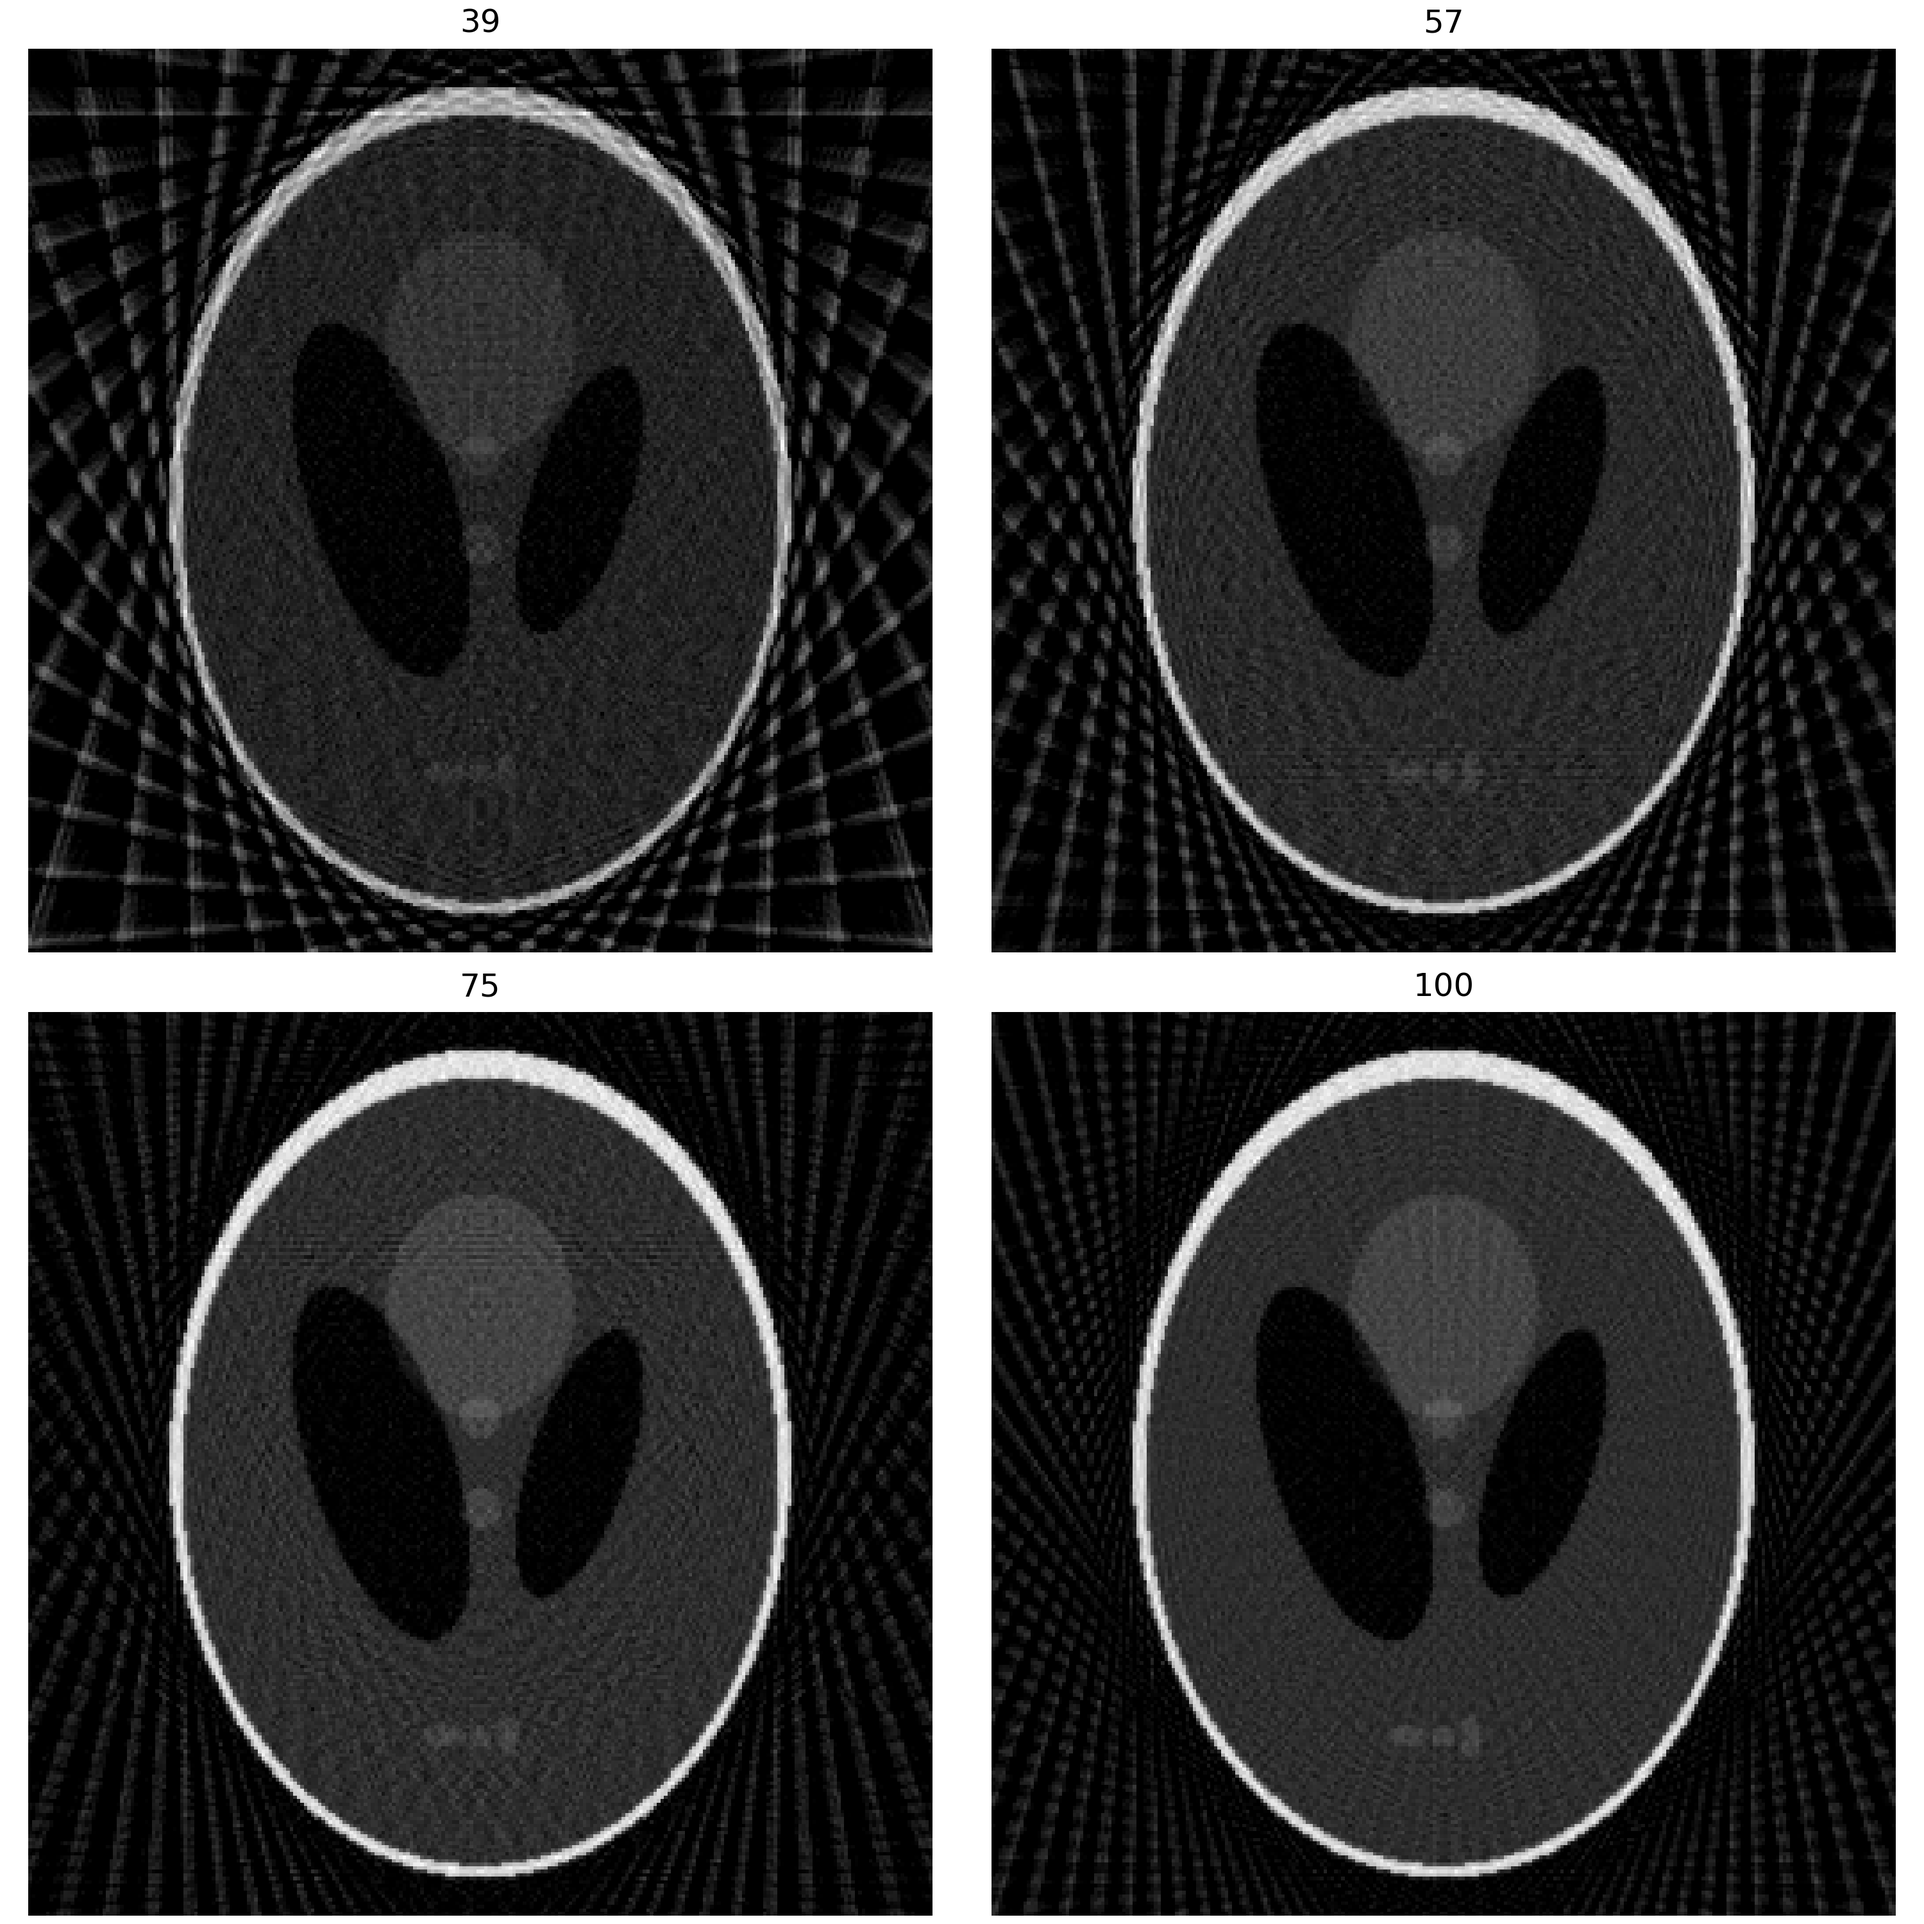
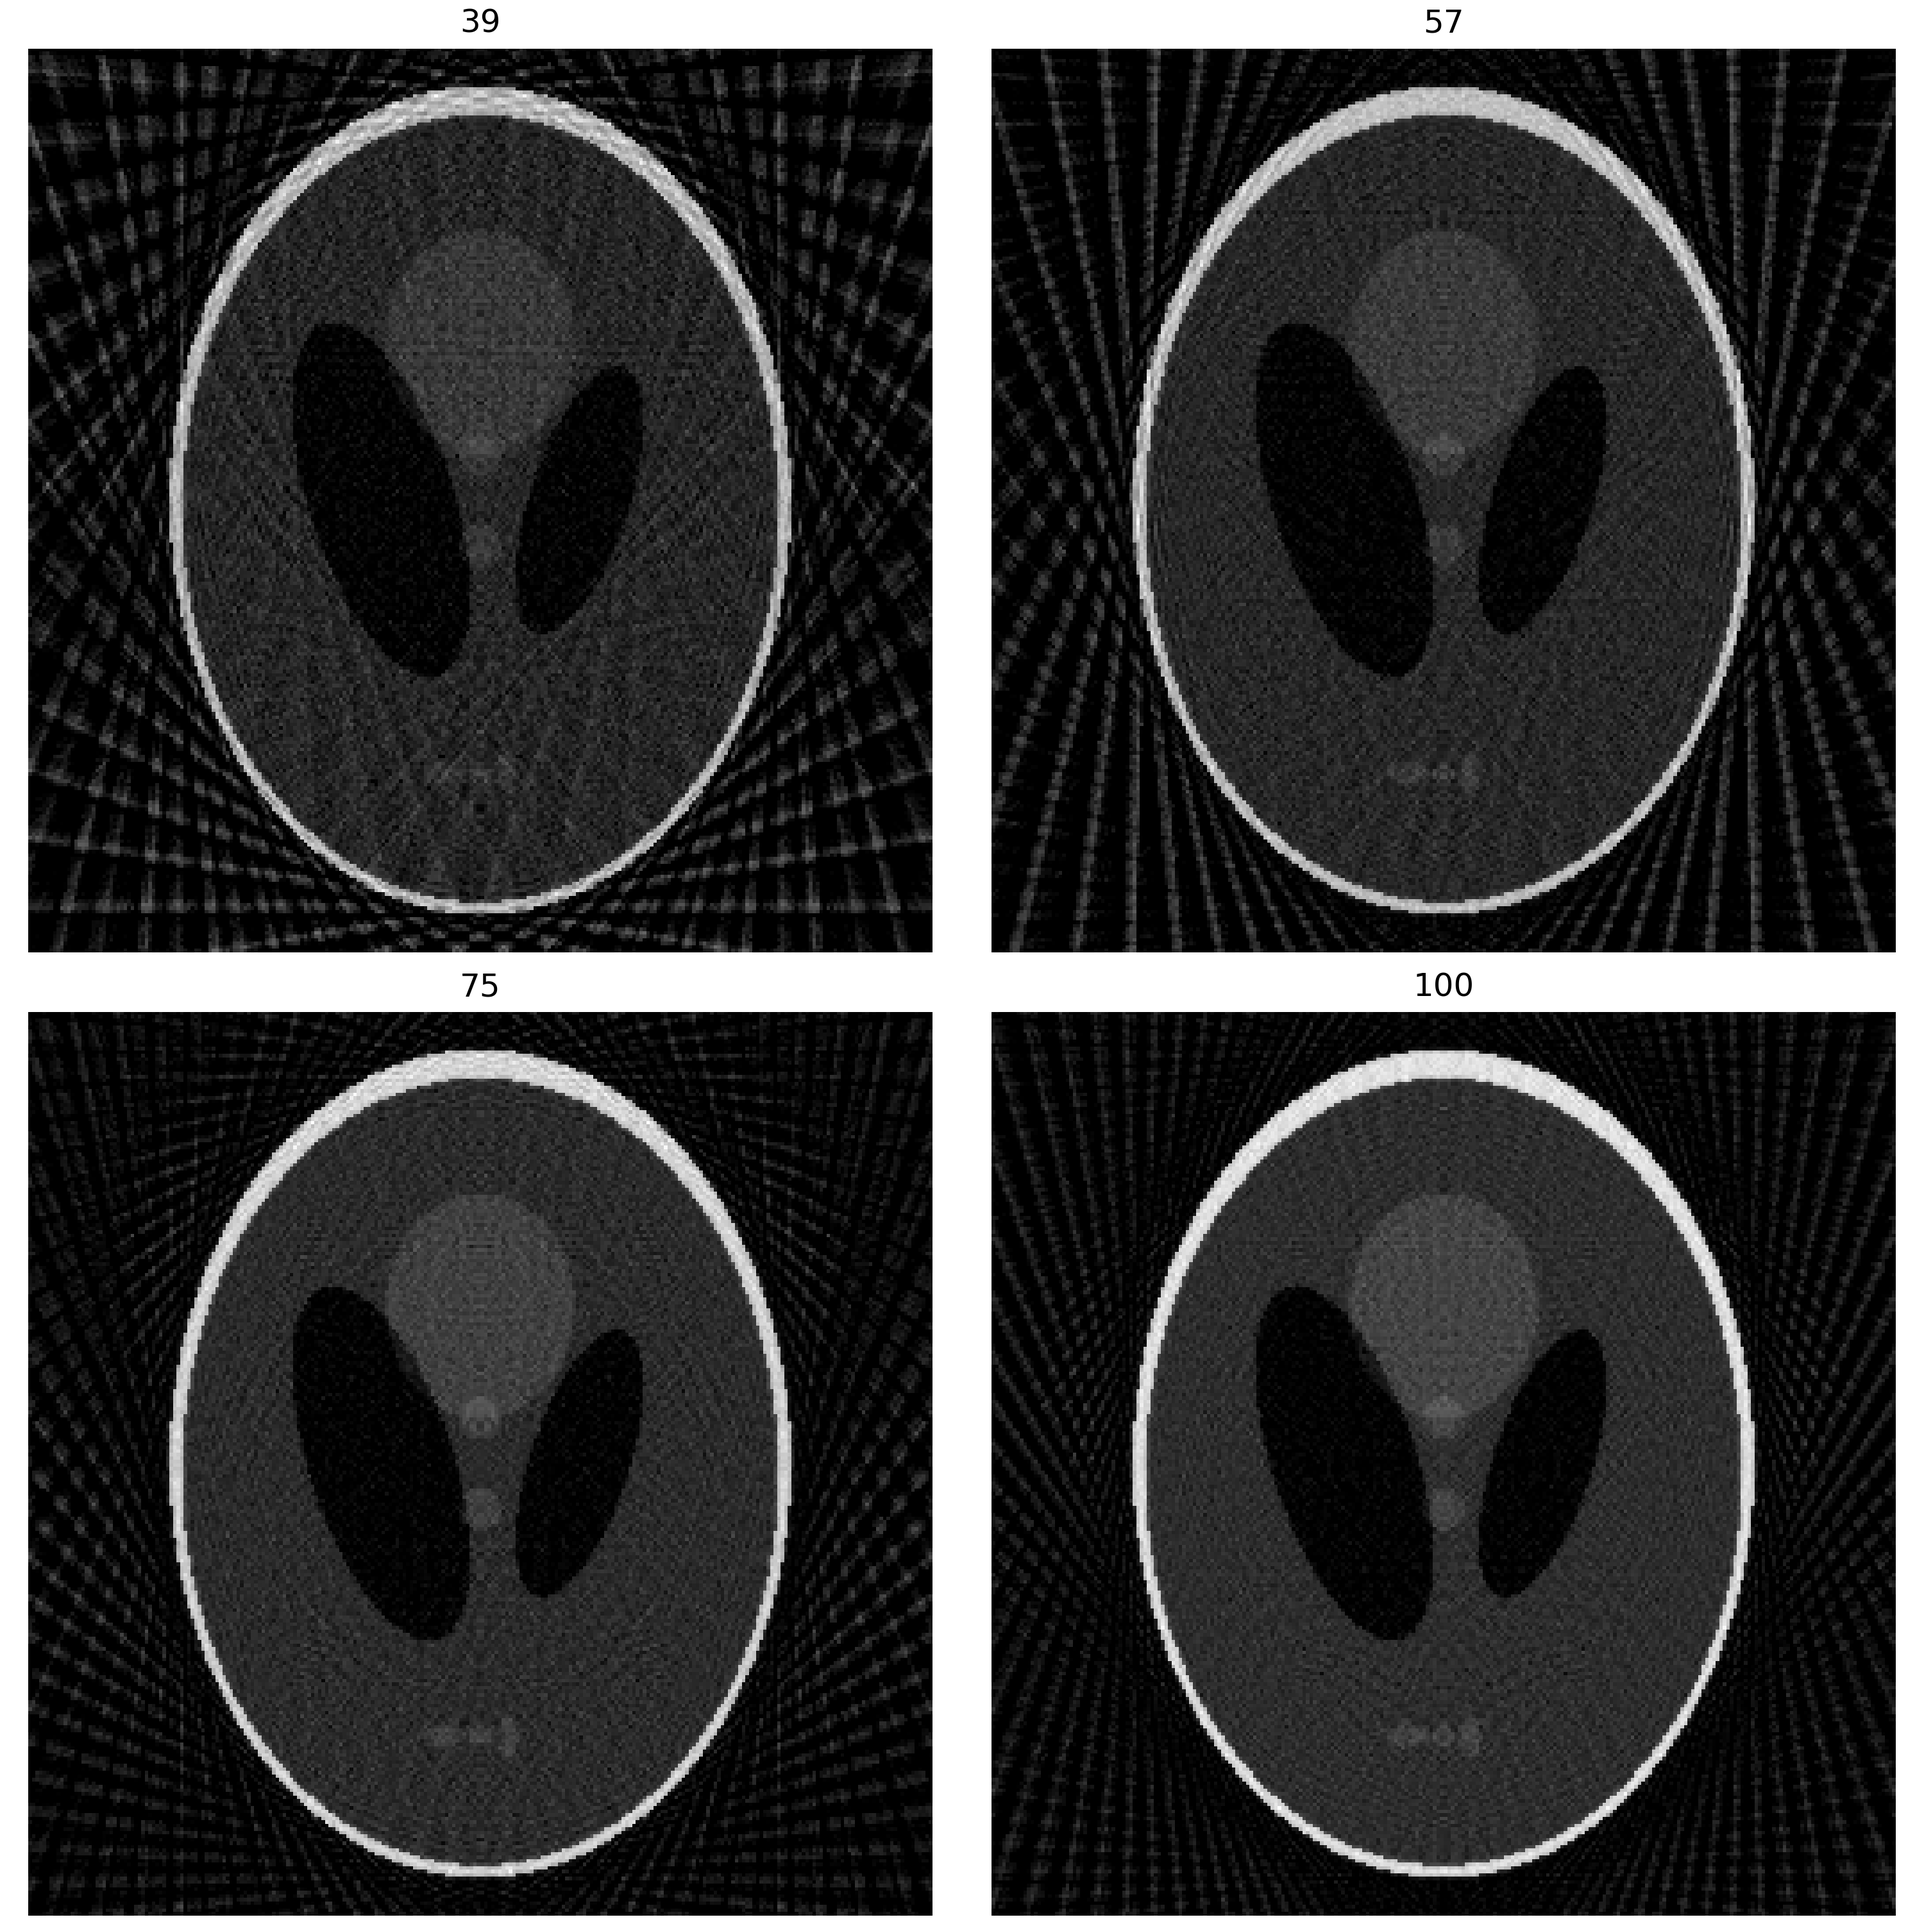
Update reconstruction method and use pandas to save excel file

diff --git a/DBWToolbox/reconstruction.py b/DBWToolbox/reconstruction.py
@@ -1,11 +1,29 @@
 import astra
 import numpy as np
 
+class Paramaters:
+    def __init__(self):
+        self.param = {}
+        self.param['vol_geom_size'] = (256, 256)    # CT图像分辨率 X,Y
+        # self.param['sx'] = 0.05*1012       # CT图像X 方向实际物理尺寸
+        # self.param['sy'] = 0.05*1012        # CT图像Y 方向实际物理尺寸
+        self.param['dect_count'] = 1024    #高分辨率探测器的分辨率
+        self.param['dsd'] = 1500      #光源到探测器的距离
+        self.param['dso'] = 1000       #光源到旋转中心的距离
+        self.param['startangle'] = 0     #旋转起始角度
+        self.param['endangle'] = 360   #旋转终止角度
+        self.param['n_proj'] = 360        #投影数
+        self.param['detector_width'] = 1
+        self.param['algorithm'] = 'FBP_CUDA'  # 投影算法
+        self.param['interation'] = -1  # 如果是迭代算法，这里写迭代次数
+        self.param['short_scan'] = False  # 是否使用short scan
+        self.param['scale'] = 2
+
 
 def get_fan_sino_param(image, param):
     angles = np.deg2rad(np.linspace(param['startangle'], param['endangle'],
                                     param['n_proj'], endpoint=False))
-    sino = get_fan_sino(image, source_detector=param['dso'], dect_w=param['detector_width'],
+    sino = get_fan_sino(image, source_ori=param['dso'], ori_detector=param['dsd']-param['dso'], dect_w=param['detector_width'],
                         dect_count=param['dect_count'], vol_geom_size=param['vol_geom_size'], angles=angles,)
     return sino
 
@@ -13,35 +31,37 @@ def get_fan_sino_param(image, param):
 def recon_fan_param(sino, param):
     angles = np.deg2rad(np.linspace(param['startangle'], param['endangle'],
                                     param['n_proj'], endpoint=False))
-    image = recon_fan(alg=param['algorithm'], sino=sino, source_detector=param['dso'],
+    image = recon_fan(alg=param['algorithm'], sino=sino, source_ori=param['dso'], ori_detector=param['dsd']-param['dso'],
                       dect_w=param['detector_width'], vol_geom_size=param['vol_geom_size'], angles=angles,
                       interations=param['interation'], short_scan=param['short_scan'])
     return image
 
 
-def get_fan_sino(image, source_detector, dect_w, dect_count, vol_geom_size, angles,):
-    astra.algorithm.clear()
+def get_fan_sino(image, source_ori, ori_detector, dect_w, dect_count, vol_geom_size, angles, ):
+    # astra.algorithm.clear()
     vol_geom_fan = astra.create_vol_geom(vol_geom_size)
-    proj_geom_fan = astra.create_proj_geom('fanflat', 1, dect_count,
+    proj_geom_fan = astra.create_proj_geom('fanflat', dect_w, dect_count,
                                            angles,
-                                           source_detector / dect_w, 0)
+                                           source_ori, ori_detector)
 
     proj_fan_id = astra.create_projector('cuda', proj_geom_fan, vol_geom_fan)
     sino_fan_id, sino_gram = astra.create_sino(image, proj_fan_id)
 
     astra.projector.delete(proj_fan_id)
     astra.projector.delete(sino_fan_id)
+    # astra.algorithm.clear()
+    astra.clear()
     return sino_gram
 
 
-def recon_fan(alg, sino, source_detector, dect_w, vol_geom_size,
+def recon_fan(alg, sino, source_ori, ori_detector, dect_w, vol_geom_size,
               angles, interations=-1, short_scan=False):
     astra.algorithm.clear()
     vol_geom_fan = astra.create_vol_geom(vol_geom_size)
 
-    proj_geom_fan = astra.create_proj_geom('fanflat', 1.0, sino.shape[1],
+    proj_geom_fan = astra.create_proj_geom('fanflat', dect_w, sino.shape[1],
                                            angles,
-                                           source_detector / dect_w, 0)
+                                           source_ori, ori_detector)
     proj_fan_id = astra.create_projector('cuda', proj_geom_fan, vol_geom_fan)
     sinogram_fan_id = astra.data2d.create('-sino', proj_geom_fan, sino)
     rec_fan_id = astra.data2d.create('-vol', vol_geom_fan)
@@ -62,4 +82,6 @@ def recon_fan(alg, sino, source_detector, dect_w, vol_geom_size,
     astra.data2d.delete(sinogram_fan_id)
     astra.projector.delete(proj_fan_id)
     rec_fan[rec_fan < 0] = 0
+    astra.algorithm.clear()
+    astra.clear()
     return rec_fan

diff --git a/DBWToolbox/showresult.py b/DBWToolbox/showresult.py
@@ -1,49 +1,43 @@
 import os
-import xlwt
+# import xlwt
 from matplotlib import pyplot as plt
 from os.path import join as ospj
 import pandas as pd
 import numpy as np
 from mpl_toolkits.axes_grid1.inset_locator import mark_inset
+import numpy as np
+import pandas as pd
+import sys, os
+from styleframe import StyleFrame
 
 
 def write_excel(full_name, data_list: list,
+                sort_by=None, sort_axis=0, ascending=True,
                 alignment=None, sheet_name='sheet',
-                columns_width:dict =None, index='name'):
-    if not str.endswith(full_name, '.xls'):
-        full_name += '.xls'
-    directory, _ = os.path.split(full_name)
-    if len(directory) != 0:
-        os.makedirs(directory, exist_ok=True)
-    work_book = xlwt.Workbook(encoding='utf-8')
-    if alignment is None:
-        alignment = xlwt.Alignment()
-        alignment.wrap = 1
-        alignment.horz = 0x02
-    style = xlwt.XFStyle()
-    style.alignment = alignment
-    sheet = work_book.add_sheet(sheet_name)    # 将sheet命名为 sheet_name
-    for i in range(len(data_list[0].keys())):
-        if columns_width == None:
-            sheet.col(i).width = 256 * 17
-        else:
-            column_width = columns_width[data_list[0].keys()[i]]
-            sheet.col(i).width = column_width
-    keys = sorted(data_list[0].keys())
-    if index not in keys:
-        raise Exception(print('Missing the index column in excel. Each row and column should have a name！'))
-    # index 要在第一列
-    keys.remove(index)
-    keys.insert(0, index)
-    # 填表头
-    for i in range(len(keys)):
-        sheet.write(0, i, keys[i], style)  # 0行i列
+                columns_width: dict =None, index='name'):
 
-    for row in range(1, len(data_list)+1):
-        data = data_list[row-1]
-        for column in range(len(keys)):
-            sheet.write(row, column, data[keys[column]], style)  # 从row行第column列开始写，注意第一行是表头，所以row从第二行开始写
-    work_book.save(full_name)
+    table_head = list(data_list[0].keys())
+    if index not in table_head:
+        raise Exception(print('Missing the index column in excel. Each row and column should have a name！'))
+
+    if table_head[0] != index:     # index 要在第一列
+        table_head.remove(index)
+        table_head.insert(0, index)
+    table_content = {}
+    #构建表内容
+    for i in range(len(data_list)):
+        for index in table_head:
+            if index not in table_content.keys():
+                table_content[index] = []
+            table_content[index].append(data_list[i][index])
+    frame = pd.DataFrame.from_dict(table_content)
+    if sort_by is not None:
+        frame.sort_values(by=sort_by, axis=sort_axis, ascending=ascending, inplace=True)
+    with StyleFrame.ExcelWriter(full_name) as writer:# 注意style只接受openpyxl作为engine
+        sf = StyleFrame(frame)
+        sf.to_excel(writer, sheet_name=sheet_name, index=False, best_fit=table_head)
+
+    return
 
 
 def read_excel_dict(full_name, index, sheet_name='sheet'):

diff --git a/example/sparse_view_example.py b/example/sparse_view_example.py
@@ -1,11 +1,9 @@
-from DBWToolbox.reconstruction import get_fan_sino_param, recon_fan_param
+from DBWToolbox.reconstruction import get_fan_sino_param, recon_fan_param, Paramaters
 from scipy.io import loadmat
 from os.path import join as ospj
-from DBWToolbox.paramaters import Paramaters
 from matplotlib import pyplot as plt
 from DBWToolbox.showresult import write_excel, read_excel_dict, show_LIP, show_histogram
 import pandas as pd
-from DBWToolbox.paramaters import Paramaters
 from DBWToolbox.tools import image_show, images_show
 from skimage.metrics import mean_squared_error as mse, structural_similarity as ssim
 import numpy as np
@@ -13,7 +11,7 @@ import numpy as np
 
 class SparseViewParamaters(Paramaters):
     def __init__(self, sparse_num):
-        Paramaters.__init__(self)
+        super(SparseViewParamaters, self).__init__()
         self.param['n_proj'] = sparse_num        #投影数
 
 
@@ -38,7 +36,7 @@ def rec_example():
                 save_path=ospj(result_path, 'sparse-sinograms.png'))
     images_show(images, (2, 2), figure_size=(10, 10), axis_off=True,
                 save_path=ospj(result_path, 'sparse-images.png'))
-rec_example()
+# rec_example()
 
 
 def write_excel_example():
@@ -54,9 +52,9 @@ def write_excel_example():
         data['mse'] = mse(phantom, sparse_image)
         data['ssim'] = ssim(phantom, sparse_image, data_range=phantom.max()-phantom.min())
         data_list.append(data)
-    write_excel(ospj(result_path, 'indicator.xls'), data_list=data_list,
+    write_excel(ospj(result_path, 'indicator.xlsx'), data_list=data_list,
                 sheet_name='sparse indicator', index='sparse number')
-# write_excel_example()
+write_excel_example()
 
 
 def show_lIP_example():
